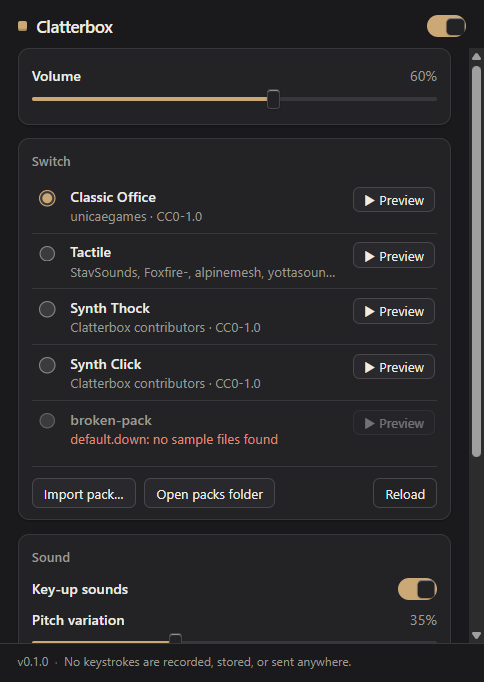
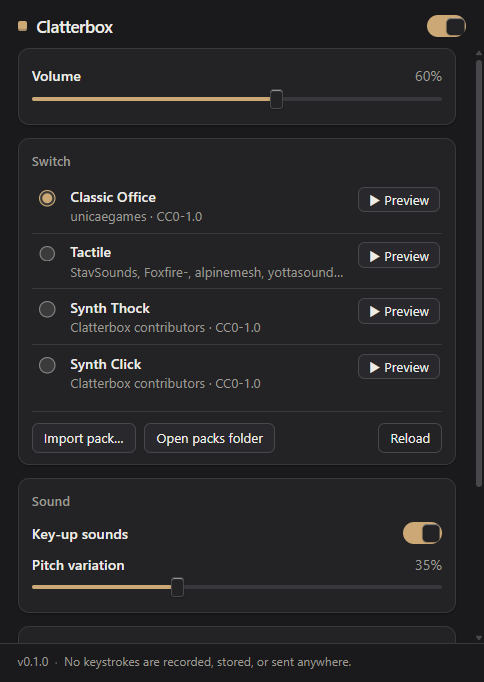
fix(ui): clean screenshots — hide mock error row, thin scrollbar
?mock now shows only the 4 valid packs; the invalid-pack fixture moves
behind ?mock=errors. Settings body scrollbar restyled thin and
theme-aware (scrollbar-width/color + WebKit fallback for WebView2)
instead of the default chunky native bar.

diff --git a/ui/src/mock.ts b/ui/src/mock.ts
@@ -22,7 +22,10 @@ let settings: Settings = {
   launch_at_login: false,
 };
 
-const packs: PackInfo[] = [
+/** `?mock=errors` also shows the invalid-pack row; plain `?mock` stays clean for screenshots. */
+const showErrors = new URLSearchParams(location.search).get("mock") === "errors";
+
+const allPacks: PackInfo[] = [
   {
     id: "builtin/classic",
     name: "Classic Office",
@@ -85,6 +88,10 @@ const packs: PackInfo[] = [
   },
 ];
 
+function visiblePacks(): PackInfo[] {
+  return showErrors ? allPacks : allPacks.filter((p) => p.valid);
+}
+
 let hookStatus: HookStatus = { state: "running", backend: "raw_input" };
 let audioStatus: AudioStatus = {
   state: "running",
@@ -142,10 +149,10 @@ export async function mockInvoke<T>(cmd: string, args?: Record<string, unknown>)
       return settings as unknown as T;
     }
     case "list_packs":
-      return packs as unknown as T;
+      return visiblePacks() as unknown as T;
     case "reload_packs":
-      packsListeners.forEach((cb) => cb(packs));
-      return packs as unknown as T;
+      packsListeners.forEach((cb) => cb(visiblePacks()));
+      return visiblePacks() as unknown as T;
     case "preview_pack":
       // eslint-disable-next-line no-console
       console.info(`[mock] preview_pack ${String(args?.id)}`);
@@ -163,8 +170,8 @@ export async function mockInvoke<T>(cmd: string, args?: Record<string, unknown>)
         error: null,
         derived: ["space.down", "default.up"],
       };
-      packs.push(info);
-      packsListeners.forEach((cb) => cb(packs));
+      allPacks.push(info);
+      packsListeners.forEach((cb) => cb(visiblePacks()));
       return info as unknown as T;
     }
     case "open_packs_dir":

diff --git a/ui/src/styles.css b/ui/src/styles.css
@@ -177,6 +177,28 @@ input {
   display: flex;
   flex-direction: column;
   gap: 12px;
+  scrollbar-width: thin;
+  scrollbar-color: var(--border-strong) transparent;
+}
+
+.body::-webkit-scrollbar {
+  width: 8px;
+}
+
+.body::-webkit-scrollbar-track {
+  background: transparent;
+}
+
+.body::-webkit-scrollbar-thumb {
+  background: var(--border-strong);
+  border-radius: 4px;
+  border: 2px solid transparent;
+  background-clip: padding-box;
+}
+
+.body::-webkit-scrollbar-thumb:hover {
+  background: var(--text-muted);
+  background-clip: padding-box;
 }
 
 .card {
